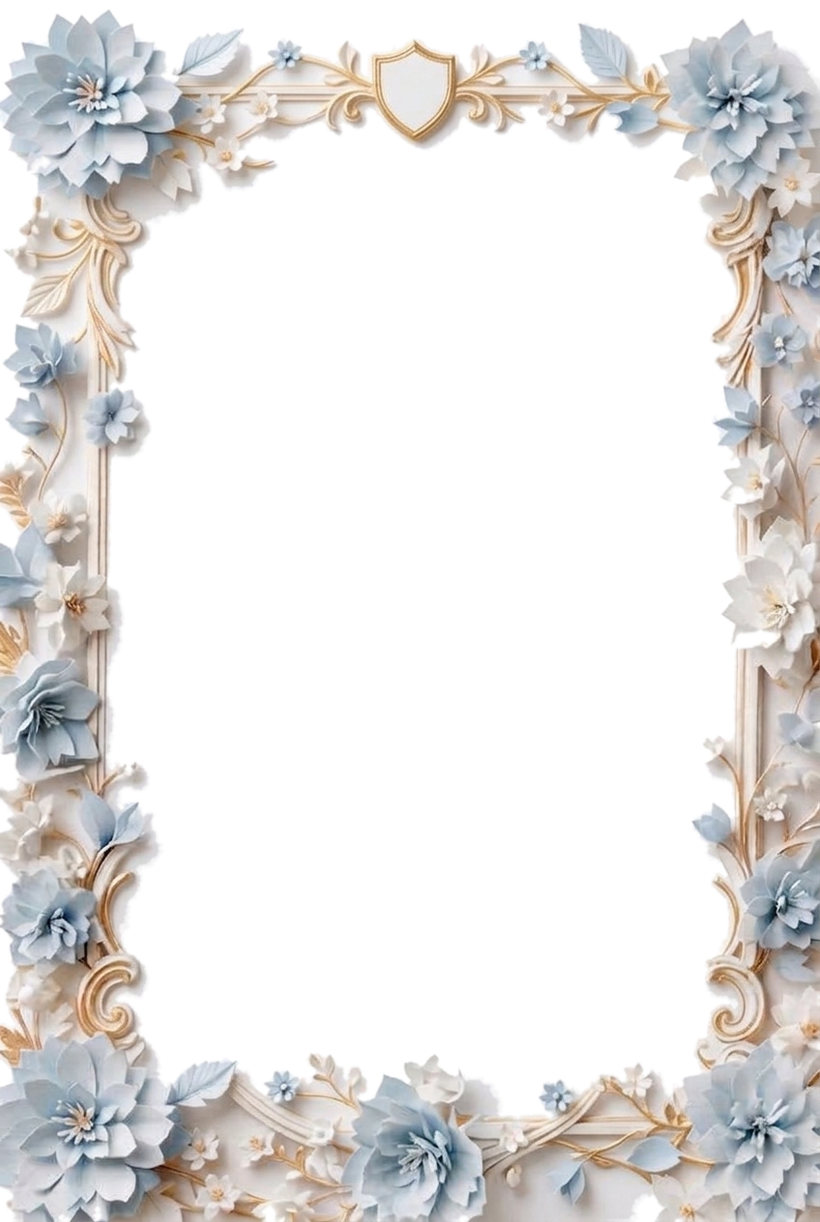
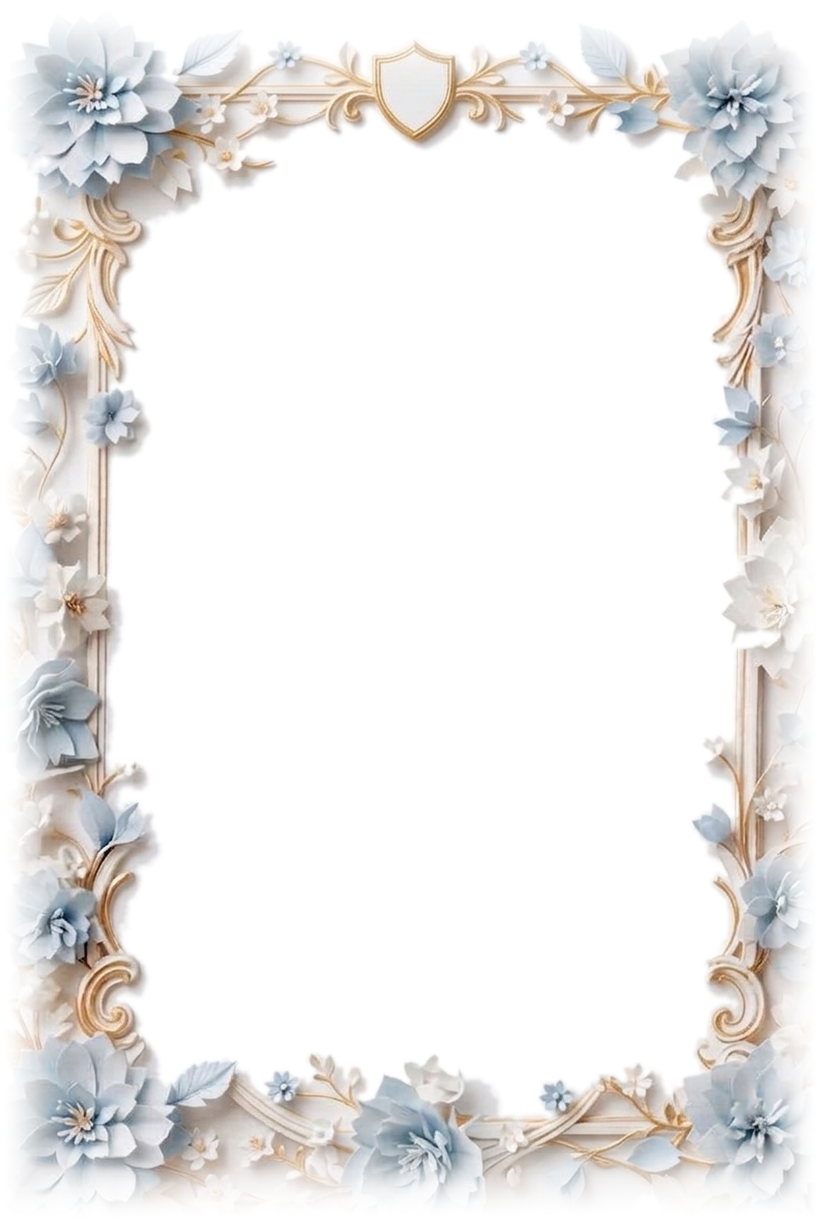
fix: marcos con bordes difuminados, mas aire interior y velo mas suave

Changed region(s): [[0.0, 0.0, 1.0, 1.0], [0.3354, 0.0311, 0.6707, 0.0622], [0.7012, 0.0, 0.7622, 0.0622]]

diff --git a/index.html b/index.html
@@ -782,21 +782,23 @@ button.dc-crown-btn.is-on + .dc-crown-name,.dc-crown-wrap:hover .dc-crown-name{o
 footer .fn{padding-left:.18em;padding-right:.18em;}
 
 /* ── MARCOS FLORALES: el contenido queda dentro del marco ── */
-.marco{position:relative;padding:76px 42px 80px;isolation:isolate;}
+.marco{position:relative;padding:92px 50px 96px;isolation:isolate;}
 .marco > *{position:relative;z-index:1;}
 /* velo suave para que el texto se lea sobre cualquier fondo */
-.marco::before{content:'';position:absolute;inset:9% 11%;z-index:0;pointer-events:none;
-  background:radial-gradient(ellipse at center,rgba(255,255,255,.92) 0%,rgba(255,255,255,.78) 62%,rgba(255,255,255,0) 100%);
-  filter:blur(2px);}
+.marco::before{content:'';position:absolute;inset:11% 13%;z-index:0;pointer-events:none;
+  background:radial-gradient(ellipse at center,rgba(255,255,255,.9) 0%,rgba(255,255,255,.72) 58%,rgba(255,255,255,0) 100%);
+  filter:blur(8px);}
 /* el marco va encima, sin estorbar al dedo */
-.marco::after{content:'';position:absolute;inset:0;z-index:2;pointer-events:none;
+.marco::after{content:'';position:absolute;inset:-16px -14px;z-index:2;pointer-events:none;
   background:var(--marco) center/100% 100% no-repeat;
-  opacity:0;transition:opacity 1.1s ease;}
+  opacity:0;transition:opacity 1.2s ease;}
 .marco.is-in::after{opacity:.96;}
 .marco-a{--marco:url('./marco-1.png');}
 .marco-b{--marco:url('./marco-2.png');}
-@media (max-width:380px){.marco{padding:62px 30px 66px;}}
-@media (min-width:768px){.marco{padding:92px 58px 96px;}}
+@media (max-width:380px){.marco{padding:74px 34px 78px;}
+  .marco::after{inset:-12px -10px;}}
+@media (min-width:768px){.marco{padding:112px 70px 116px;}
+  .marco::after{inset:-22px -18px;}}
 @media (prefers-reduced-motion:reduce){.marco::after{transition:none;opacity:.96;}}
 
 .rv{will-change:transform,opacity;}
